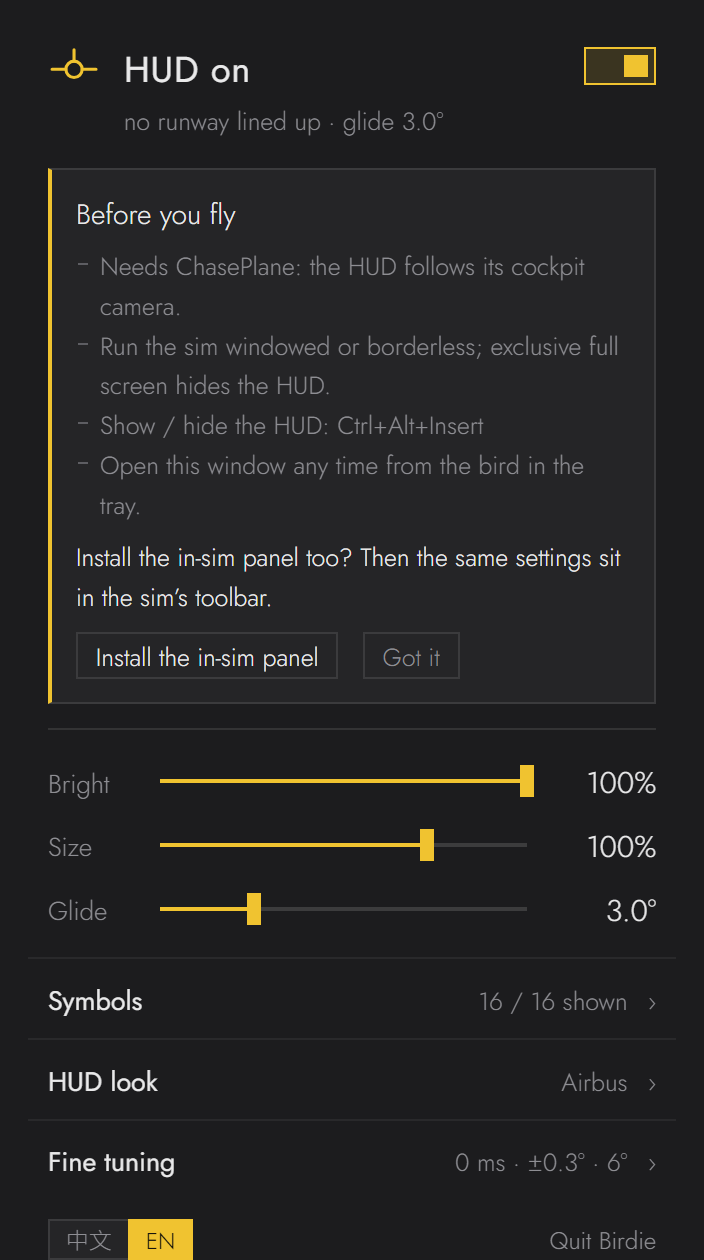
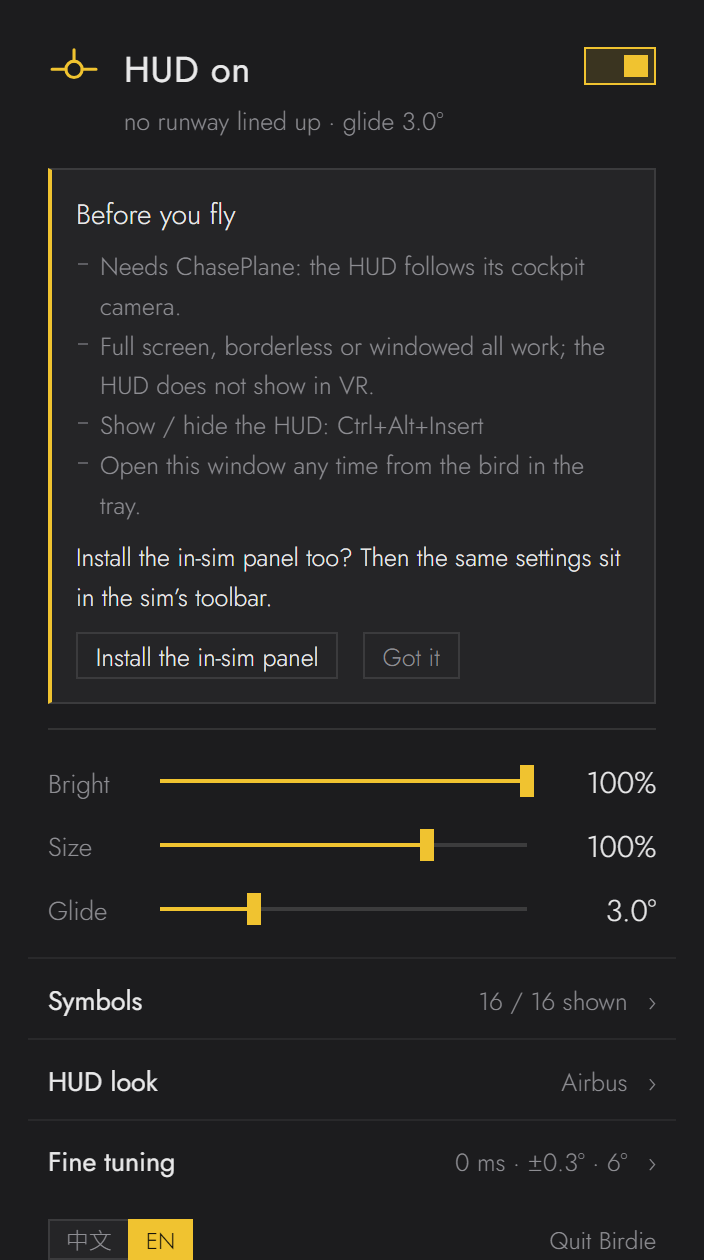
Version 1.0.0
No version suffix, so the HUD no longer shows the beta watermark.
16:9 is checked; the manual, README and the zip's README.txt drop the
beta notes, and the manual pictures are redrawn (welcome card with the
full-screen wording, settings without the watermark, version 1.0.0).

Changed region(s): [[0.1562, 0.2476, 0.6562, 0.3095], [0.6875, 0.2476, 0.875, 0.2786]]

diff --git a/docs/manual/manual.en.html b/docs/manual/manual.en.html
@@ -43,7 +43,7 @@
   <li><b>Airframe-fixed instruments</b>: speed and altitude tapes, vertical speed, bank scale, radio altitude, the flare cue and more.</li>
 </ul>
 <p>It looks like an Airbus HUD by default. Boeing, fighter and minimal presets are one click away, and every element's style, size, position and colour can be set on its own (chapter 7).</p>
-<div class="note">Birdie does one thing: the HUD. This is a beta: the HUD shows "Birdie beta" above the altitude tape; the 1.0.0 release will not.</div>
+<div class="note">Birdie does one thing: the HUD.</div>
 
 <h2><span class="n">2</span>Install and first run</h2>
 <h3>Requirements</h3>
@@ -266,7 +266,7 @@
   <tr><td class="k">SimConnect.dll not found at start</td><td>The zip was not extracted whole. <code>SimConnect.dll</code> must be in the same folder as <code>Birdie.exe</code>.</td></tr>
   <tr><td class="k">"Windows protected your PC"</td><td>Birdie is not code-signed. Click "More info", then "Run anyway".</td></tr>
   <tr><td class="k">Settings open in the browser</td><td>No WebView2 runtime (Windows 10 may lack it). Everything works the same; install the Microsoft Edge WebView2 runtime for Birdie's own window.</td></tr>
-  <tr><td class="k">Runway outline off sideways or along</td><td>16:9 / 16:10 screens and the eye point of some aircraft are still being checked. Please open an issue with a screenshot, the aircraft, your screen size and the log.</td></tr>
+  <tr><td class="k">Runway outline off sideways or along</td><td>16:10 screens and the eye point of some aircraft are still being checked. Please open an issue with a screenshot, the aircraft, your screen size and the log.</td></tr>
   <tr><td class="k">Radio altitude not 0 on the ground</td><td>Stand still and take the reading (chapter 8).</td></tr>
   <tr><td class="k">HUD lags in turns</td><td>Add display latency (chapter 8), 10–20 ms at a time.</td></tr>
   <tr><td class="k">No bird in the toolbar</td><td>Restart the sim after installing the in-sim panel; check its state and folder under Fine tuning → In-sim panel.</td></tr>

diff --git a/docs/manual/manual.zh-CN.html b/docs/manual/manual.zh-CN.html
@@ -43,7 +43,7 @@
   <li><b>固定在机体上的仪表</b>：速度带、高度带、升降速度、坡度刻度、无线电高度、拉平提示等。</li>
 </ul>
 <p>默认是空客的样子；另有波音、战斗机、极简三套预设，每个元素的样式、大小、位置、颜色都能单独设置（第 7 章）。</p>
-<div class="note">Birdie 只做 HUD 这一件事。这是测试版：HUD 高度带上方会显示"Birdie 测试版"，正式版（1.0.0）没有。</div>
+<div class="note">Birdie 只做 HUD 这一件事。</div>
 
 <h2><span class="n">2</span>安装和第一次运行</h2>
 <h3>需要</h3>
@@ -266,7 +266,7 @@
   <tr><td class="k">启动时提示找不到 SimConnect.dll</td><td>没有把 zip 整个解压。<code>SimConnect.dll</code> 要和 <code>Birdie.exe</code> 在同一个文件夹。</td></tr>
   <tr><td class="k">"Windows 已保护你的电脑"</td><td>程序没有代码签名。点"更多信息"→"仍要运行"。</td></tr>
   <tr><td class="k">设置在浏览器里打开</td><td>电脑上没有 WebView2 运行时（Windows 10 可能没有）。功能一样；想要独立窗口可以安装 Microsoft Edge WebView2 运行时。</td></tr>
-  <tr><td class="k">跑道框左右或前后偏</td><td>16:9 / 16:10 屏幕和部分机型的眼点还在验证中。请提一个 Issue，附上截图、机型、屏幕尺寸和日志。</td></tr>
+  <tr><td class="k">跑道框左右或前后偏</td><td>16:10 屏幕和部分机型的眼点还在验证中。请提一个 Issue，附上截图、机型、屏幕尺寸和日志。</td></tr>
   <tr><td class="k">RA 在地面上不是 0</td><td>停稳后点"停在地面时，记下现在的读数"（第 8 章）。</td></tr>
   <tr><td class="k">转弯时 HUD 跟不上</td><td>加一点显示延迟补偿（第 8 章），每次 10–20 ms 试。</td></tr>
   <tr><td class="k">工具栏里没有小鸟</td><td>装完游戏内面板要重启模拟器；在"细调 → 游戏内面板"里看状态和路径。</td></tr>

diff --git a/tools/panel_preview/fake.js b/tools/panel_preview/fake.js
@@ -11,7 +11,7 @@
   FakeWS.prototype.close = function () {};
   FakeWS.prototype.push = function () {
     var st = { type: 'state', settings: { visible: true, glide_deg: 3, hud_scale: 1, opacity: 1, lead_ms: 0, flare_tol_deg: 0.3, ladder_step_deg: 6, language: '', bird_ra_below_ft: 500, xwind_mode: false },
-      status: { showing: !/[?&]why=/.test(location.search), why: ((location.search.match(/[?&]why=(\w+)/) || [])[1]) || 'show', aircraft: 'FSLabs A321-200 CFM', lang: location.search.indexOf('en') >= 0 ? 'en' : 'zh', on_ground: true, version: '0.9.2-beta', border: window.__border, ra: null, runway: null,
+      status: { showing: !/[?&]why=/.test(location.search), why: ((location.search.match(/[?&]why=(\w+)/) || [])[1]) || 'show', aircraft: 'FSLabs A321-200 CFM', lang: location.search.indexOf('en') >= 0 ? 'en' : 'zh', on_ground: true, version: '1.0.0', border: window.__border, ra: null, runway: null,
         ingame: { state: ((location.search.match(/[?&]ig=(\w+)/) || [])[1]) || 'none', dir: 'C:\\Users\\me\\AppData\\Local\\Packages\\Microsoft.Limitless_8wekyb3d8bbwe\\LocalCache\\Packages\\Community',
                   chosen: false, has_pack: true, note: ((location.search.match(/[?&]ignote=(\w+)/) || [])[1]) || '', err: '', sim_running: true } } };
     // ?set=key:value,key:value overrides settings (numbers, true/false, or text)

diff --git a/scripts/package.py b/scripts/package.py
@@ -1,7 +1,7 @@
 """Make the release zip: dist/Birdie-<version>.zip, the same file for GitHub Releases and flightsim.to.
 
   scripts\\build.bat                     build first (release preset -> build/release)
-  python scripts/package.py              -> dist/Birdie-0.9.2-beta.zip
+  python scripts/package.py              -> dist/Birdie-1.0.0.zip
   python scripts/package.py --build build/border --allow-dirty
 
 Contents (one folder, so "extract here" does not scatter files):

diff --git a/docs/ROADMAP.md b/docs/ROADMAP.md
@@ -15,7 +15,7 @@
 
 - **M0 移交包** ✅
 - **M1 C++ 核心对齐 Python 参照版** ✅：几何、绘制命令、9 张对照图逐像素一致（[CPP_PORT.md](CPP_PORT.md)）
-- **M2 多屏幕 + 多机型核实**（进行中）：21:9 上 FSLabs A321、Fenix A321、FBW A32NX、C152 已实飞；还差 16:9 / 16:10 下的缩放换算、
+- **M2 多屏幕 + 多机型核实**（进行中）：21:9 上 FSLabs A321、Fenix A321、FBW A32NX、C152 已实飞，16:9 已核实；还差 16:10 下的缩放换算、
   Fenix / FSLabs 的眼点横向（目前只在 FBW 上验证过）、瞄准点标志的前后位置（和地景差约半块，待实测）
 - **M3 游戏内工具栏面板** ✅：面板打进 `Birdie.exe`，设置里一键安装 / 更新 / 移除
 - **M4 一期发布**（进行中）：

diff --git a/README.md b/README.md
@@ -22,7 +22,7 @@ and position can be set on its own, as can colour, font, line width and glow.
 It is an external, transparent, click-through window rendered on the GPU (Direct2D + DirectComposition). Nothing is
 injected into the simulator; data comes from SimConnect. An optional toolbar panel lets you adjust it in flight.
 
-> **Status: 0.9.2-beta.** Flown with the FSLabs A321, Fenix A321, FlyByWire A32NX and the C152 on a 21:9 screen.
+> **Status: 1.0.0.** Flown with the FSLabs A321, Fenix A321, FlyByWire A32NX and the C152 on a 21:9 screen, and checked on 16:9.
 > Other screen shapes and aircraft should work but are less tested — reports welcome.
 
 ## Download
